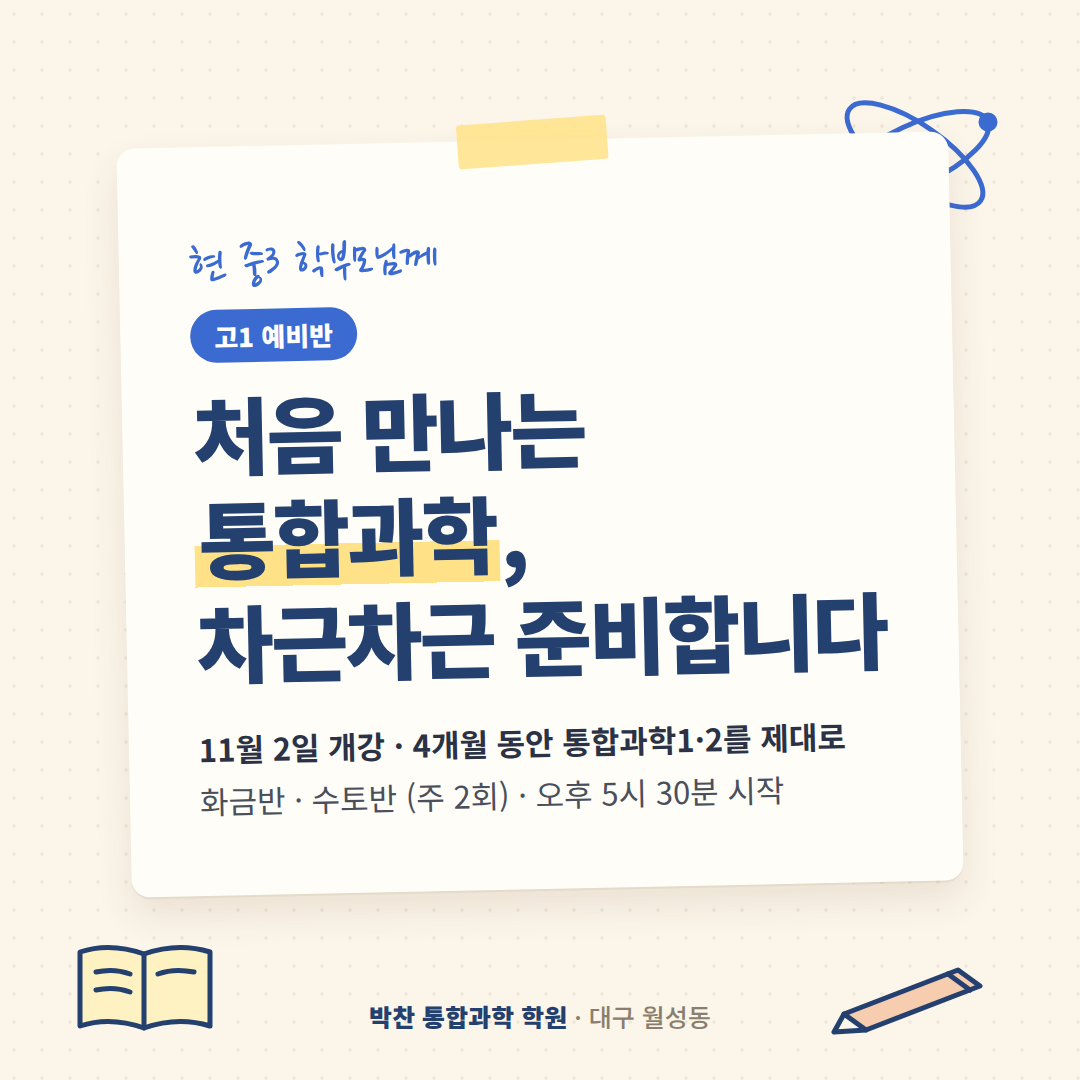
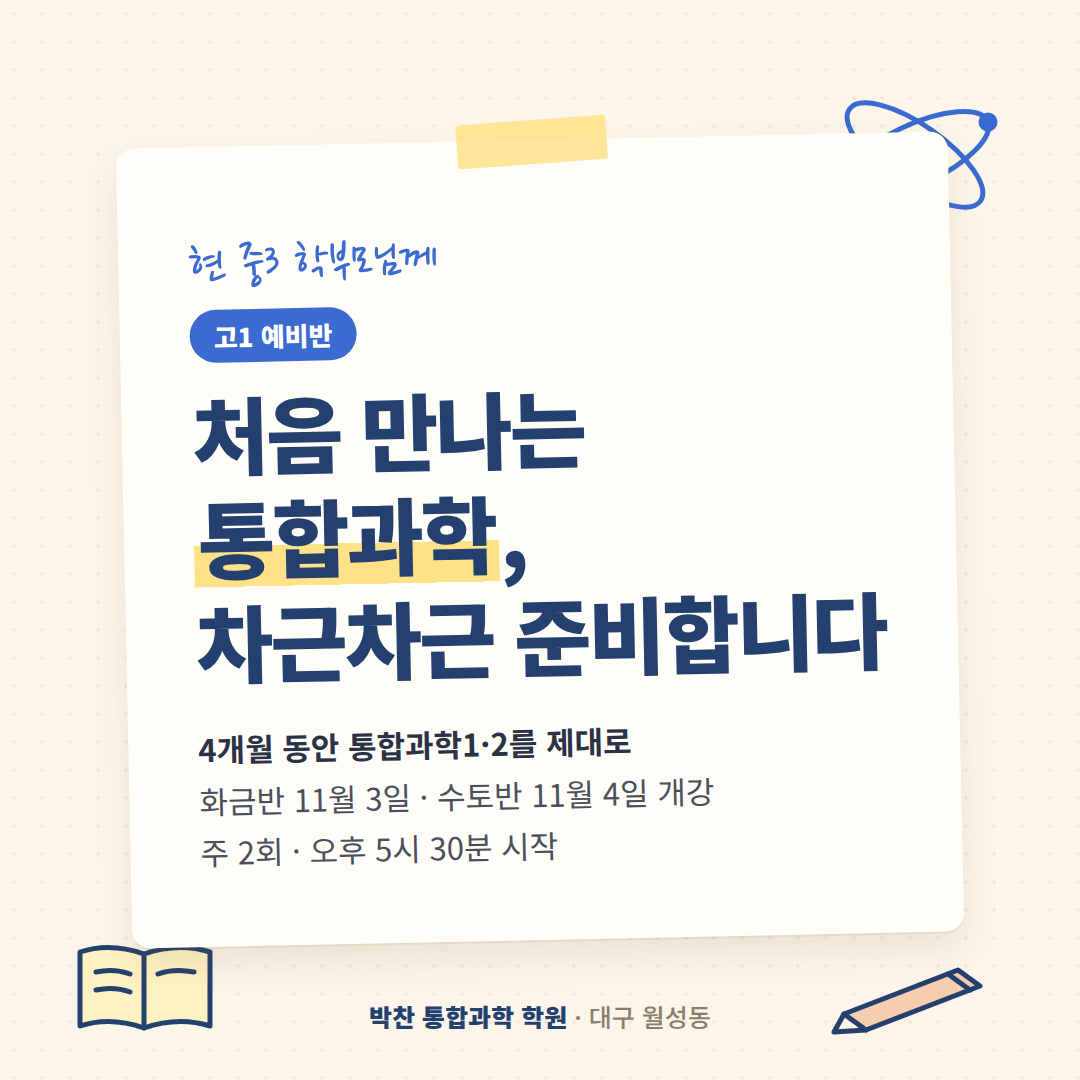
박찬 통합과학: 예비반 개강일 화금반 11/3·수토반 11/4, 대상 '고1 예비 (현 중3)'
- marketing/blog-16: 대표·기간·네 단계 사진과 본문·제목의 개강일 정정, 대상 표기 변경, 사진 설명(대체 글)도 맞춤
- README 사실 갱신

Claude-Session: https://claude.ai/code/session_01WC7EVNFFJZDdwaC3HYBAmj

diff --git a/parkchan-science/marketing/blog-16/kit.html b/parkchan-science/marketing/blog-16/kit.html
@@ -32,7 +32,7 @@ mark{background:var(--soft);color:var(--ink);outline:1px solid var(--gold);borde
 </style>
 <div class="wrap">
 <section class="box"><h1>박찬 통합과학 · 고1 예비반 안내 글</h1><p class="sub">현 중3 · 고1 예비반(11월~2월) · 편안한 디자인 · 합니다체 · 사진 8장 · 통합과학1·2 진도 · 주 2회 이유 · 네 단계</p></section>
-<section class="box"><h2>① 제목 — 하나 고르기</h2><div class="row"><span class="k">A</span><span class="t">월성동 과학학원 | 현 중3 고1 예비반, 4개월 동안 통합과학 1·2를 제대로 — 박찬 통합과학</span><button class="cp" data-text="월성동 과학학원 | 현 중3 고1 예비반, 4개월 동안 통합과학 1·2를 제대로 — 박찬 통합과학">복사</button></div><div class="row"><span class="k">B</span><span class="t">대구 과학학원 | 고1 예비반 11월 2일 개강, 통합과학 1·2 두 권을 확실하게 — 월성동 박찬 통합과학</span><button class="cp" data-text="대구 과학학원 | 고1 예비반 11월 2일 개강, 통합과학 1·2 두 권을 확실하게 — 월성동 박찬 통합과학">복사</button></div></section>
+<section class="box"><h2>① 제목 — 하나 고르기</h2><div class="row"><span class="k">A</span><span class="t">월성동 과학학원 | 현 중3 고1 예비반, 4개월 동안 통합과학 1·2를 제대로 — 박찬 통합과학</span><button class="cp" data-text="월성동 과학학원 | 현 중3 고1 예비반, 4개월 동안 통합과학 1·2를 제대로 — 박찬 통합과학">복사</button></div><div class="row"><span class="k">B</span><span class="t">대구 과학학원 | 고1 예비반 11월 3·4일 개강, 통합과학 1·2 두 권을 확실하게 — 월성동 박찬 통합과학</span><button class="cp" data-text="대구 과학학원 | 고1 예비반 11월 3·4일 개강, 통합과학 1·2 두 권을 확실하게 — 월성동 박찬 통합과학">복사</button></div></section>
 <section class="box"><h2>② 본문 — 통째로 복사</h2><textarea id="bodyTxt" readonly>안녕하십니까.
 대구 월성동 박찬 통합과학 학원
 원장 박찬입니다.
@@ -50,9 +50,9 @@ mark{background:var(--soft);color:var(--ink);outline:1px solid var(--gold);borde
 
 【소제목 · 인용구】 4개월 동안 통합과학 1·2를 제대로
 
-개강: 2026년 11월 2일
+개강: 화금반 2026년 11월 3일(화) · 수토반 11월 4일(수)
 기간: 2027년 2월 28일까지 4개월
-대상: 현 중학교 3학년 (2027년 고1)
+대상: 고1 예비 (현 중3)
 반: 화금반 · 수토반 (주 2회)
 시간: 오후 5시 30분 시작
 
@@ -179,7 +179,7 @@ mark{background:var(--soft);color:var(--ink);outline:1px solid var(--gold);borde
   고등학교 과학으로 이어지는 기초
 
 · 고1 예비반 (지금 모집)
-  현 중3 · 2026년 11월 2일 개강 ~ 2027년 2월 28일
+  고1 예비 (현 중3) · 2026년 11월 3일(화금반)·4일(수토반) 개강 ~ 2027년 2월 28일
   화금반 · 수토반 (주 2회) · 오후 5시 30분 시작
   4개월 동안 통합과학 1·2를 제대로
 
@@ -241,9 +241,9 @@ mark{background:var(--soft);color:var(--ink);outline:1px solid var(--gold);borde
 <section class="box"><h2>미리보기</h2><article class="post"><p>안녕하십니까.<br>대구 월성동 박찬 통합과학 학원<br>원장 박찬입니다.</p>
 <p>현재 중학교 3학년 자녀를 두신<br>학부모님께 인사드립니다.</p>
 <p>내년 봄, 고등학교에 올라가면<br>아이들은 처음으로<br>&#x27;통합과학&#x27;을 만나게 됩니다.<br>그 첫걸음을 차근차근 준비하는<br>고1 예비반을 안내해 드립니다.</p>
-<figure><img src="images/01_greeting.png" alt="현 중3 학부모님께 — 고1 예비반, 11월 2일 개강, 통합과학1·2를 제대로"><figcaption>사진 1 · 01_greeting.png</figcaption></figure>
+<figure><img src="images/01_greeting.png" alt="현 중3 학부모님께 — 고1 예비반, 화금반 11월 3일·수토반 11월 4일 개강, 통합과학1·2를 제대로"><figcaption>사진 1 · 01_greeting.png</figcaption></figure>
 <blockquote>4개월 동안 통합과학 1·2를 제대로</blockquote>
-<p>개강: 2026년 11월 2일<br>기간: 2027년 2월 28일까지 4개월<br>대상: 현 중학교 3학년 (2027년 고1)<br>반: 화금반 · 수토반 (주 2회)<br>시간: 오후 5시 30분 시작</p>
+<p>개강: 화금반 2026년 11월 3일(화) · 수토반 11월 4일(수)<br>기간: 2027년 2월 28일까지 4개월<br>대상: 고1 예비 (현 중3)<br>반: 화금반 · 수토반 (주 2회)<br>시간: 오후 5시 30분 시작</p>
 <p>고등학교 통합과학은<br>통합과학 1과 통합과학 2, 두 권입니다.<br>이 4개월 동안 두 권을 제대로 다룹니다.</p>
 <p>· 11월 ~ 12월 (2개월) : 통합과학 1<br>과학의 기초 · 물질과 규칙성 · 시스템과 상호작용</p>
 <p>· 1월 ~ 2월 (2개월) : 통합과학 2<br>변화와 다양성 · 환경과 에너지 · 과학과 미래 사회</p>
@@ -278,7 +278,7 @@ mark{background:var(--soft);color:var(--ink);outline:1px solid var(--gold);borde
 <p>박찬 통합과학 학원의 반은<br>따로 떨어져 있지 않습니다.</p>
 <p>앞 단계에서 기초를 다지고,<br>그 위에서 고등학교 내신을 준비하고,<br>내신 수업 속에서 사고력과 응용력을 키워<br>고3 수능까지 나아가도록<br>하나의 흐름으로 짜여 있습니다.</p>
 <p>· 중등부반<br>내년 중3이 되는 현 중2 · 2027년 1월 개강<br>고등학교 과학으로 이어지는 기초</p>
-<p>· 고1 예비반 (지금 모집)<br>현 중3 · 2026년 11월 2일 개강 ~ 2027년 2월 28일<br>화금반 · 수토반 (주 2회) · 오후 5시 30분 시작<br>4개월 동안 통합과학 1·2를 제대로</p>
+<p>· 고1 예비반 (지금 모집)<br>고1 예비 (현 중3) · 2026년 11월 3일(화금반)·4일(수토반) 개강 ~ 2027년 2월 28일<br>화금반 · 수토반 (주 2회) · 오후 5시 30분 시작<br>4개월 동안 통합과학 1·2를 제대로</p>
 <p>· 고1 내신반<br>2027년 고1 · 2027년 3월 ~ 12월 · 주 1회<br>학교마다 다른 교과서(5개 출판사)에 맞춘<br>내신 대비와 사고력·응용력</p>
 <p>· 고3 수능반<br>내년 고3이 되는 현 고2 · 2027년 1월 개강 · 주 1회<br>첫 통합과학 수능(2028학년도) 대비</p>
 <p>중등부반과 고3 수능반은<br>개강에 맞춰 다시 자세히 안내해 드리겠습니다.</p>

diff --git a/parkchan-science/marketing/README.md b/parkchan-science/marketing/README.md
@@ -15,7 +15,7 @@
 - **수업 영상은 학원 안에서만** 본다(학원 TV·시청 공간). **집에서 보기 없음**(저작권). '집에서 다시 본다'는 말 금지.
 - **고1 예비반 교재 = 완자 위주**(블로그엔 이름 쓰지 않고 '대표 개념서'). **학교별 교과서(5개 출판사) 맞춤은 2027년 3월 고1 내신반부터** — 예비반 설명에 넣지 않는다.
 - **보충자료는 예비반부터 계속** 제공.
-- **고1 예비반 개강 2026년 11월 2일**(월) ~ 2027년 2월 28일 · **화금반 · 수토반, 주 2회 · 오후 5시 30분 시작**(끝나는 시각은 적지 않음 — 원장님 요청).
+- **고1 예비반 개강: 화금반 2026년 11월 3일(화) · 수토반 11월 4일(수)** ~ 2027년 2월 28일 · 주 2회 · 오후 5시 30분 시작(끝나는 시각은 적지 않음). **대상 표기는 '고1 예비 (현 중3)'**.
 - **교습비 두 금액 = 주 1회 / 주 2회** 차이(월 기준). 고1 예비반은 **고등부** — **월 31만 7,000원(주 2회)**.
 - **예비반 진도: 11~12월 통합과학 1(과학의 기초·물질과 규칙성·시스템과 상호작용), 1~2월 통합과학 2(변화와 다양성·환경과 에너지·과학과 미래 사회)** — '두 권을 제대로, 확실하게'(원장님 강조). ⚠ 진도 명시는 선행학습 광고 위험을 키운다(원장님께 알림) — '선행'·'완성' 낱말은 계속 쓰지 않음.
 - **주 2회는 고1 예비반만**(시간 여유가 있는 유일한 때 — 원장님 강의 경험). **고1 내신반·고3 수능반은 주 1회.** 중등부반 횟수는 【확인 필요】.
@@ -27,7 +27,7 @@
 ## 반 운영 일정(원장님 2026-10-10)
 | 반 | 대상 | 일정 |
 |---|---|---|
-| 고1 예비반 | 현 중3 | **2026.11.2 개강 ~ 2027.2.28** · 화금반·수토반 주 2회 (지금 모집) |
+| 고1 예비반 | 고1 예비 (현 중3) | **화금반 11.3 · 수토반 11.4 개강 ~ 2027.2.28** · 주 2회 (지금 모집) |
 | 중등부반 | 내년 중3(현 중2) | 2027년 1월 개강 |
 | 고3 수능반 | 내년 고3(현 고2 — 첫 통합과학 수능 2028학년도) | 2027년 1월 개강 · 주 1회 |
 | 고1 내신반 | 2027년 고1 | 2027년 3월 ~ 12월 · 주 1회 |
